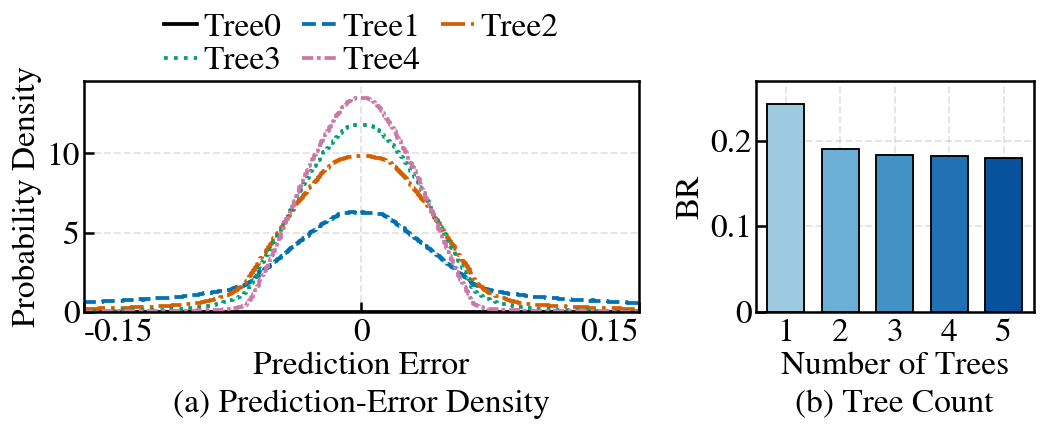
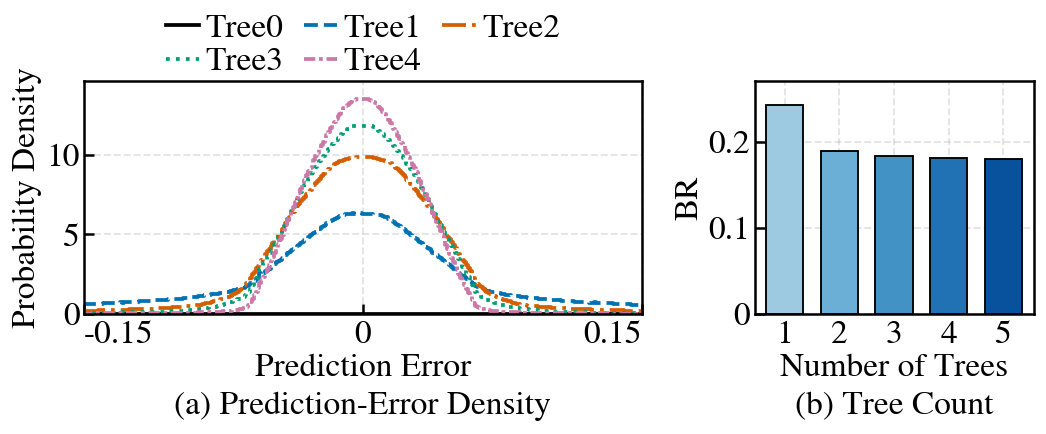
Standardize horizontal panel gaps

diff --git a/src/paperfig/__init__.py b/src/paperfig/__init__.py
@@ -1,6 +1,6 @@
 from .layout import add_panel_captions,add_shared_xlabel,align_xlabels,layout_panel_grid,layout_panel_row,legend_above,legend_spacing_kwargs,panel_aspect_ratios,paper_subplots,set_legend_row_gap
 from .output import save_paper_png,save_paper_png_vertical_crop,validate_figure_bounds
-from .spec import DEFAULT_LEGEND_COLUMN_GAP_PT,DEFAULT_LEGEND_GAP_PT,DEFAULT_LEGEND_HANDLE_TEXT_GAP_PT,DEFAULT_LEGEND_ROW_GAP_PT,DEFAULT_LOG_X_TICK_GAP_PT,DEFAULT_PANEL_ASPECT_RATIO,DEFAULT_PANEL_CAPTION_GAP_PT,DEFAULT_X_LABEL_GAP_PT,DEFAULT_X_TICK_GAP_PT,DEFAULT_Y_LABEL_GAP_PT,DEFAULT_Y_TICK_GAP_PT,MPL_POINTS_PER_INCH,PAPER_COLUMN_WIDTH_PT,PAPER_FONT_SIZE,PAPER_TEXT_WIDTH_IN,PAPER_TEXT_WIDTH_PT,RASTER_DPI,TEX_POINTS_PER_INCH,PaperFigureSpec
+from .spec import DEFAULT_LEGEND_COLUMN_GAP_PT,DEFAULT_LEGEND_GAP_PT,DEFAULT_LEGEND_HANDLE_TEXT_GAP_PT,DEFAULT_LEGEND_ROW_GAP_PT,DEFAULT_LOG_X_TICK_GAP_PT,DEFAULT_PANEL_ASPECT_RATIO,DEFAULT_PANEL_CAPTION_GAP_PT,DEFAULT_X_LABEL_GAP_PT,DEFAULT_X_TICK_GAP_PT,DEFAULT_Y_LABEL_GAP_PT,DEFAULT_Y_TICK_GAP_PT,MPL_POINTS_PER_INCH,PANEL_GAP_WITHOUT_Y_DECORATION_PT,PANEL_GAP_WITH_YLABEL_PT,PANEL_GAP_WITH_YTICKS_PT,PAPER_COLUMN_WIDTH_PT,PAPER_FONT_SIZE,PAPER_TEXT_WIDTH_IN,PAPER_TEXT_WIDTH_PT,RASTER_DPI,TEX_POINTS_PER_INCH,PaperFigureSpec
 from .style import apply_paper_style,style_plot_axis
 
-__all__=["DEFAULT_LEGEND_COLUMN_GAP_PT","DEFAULT_LEGEND_GAP_PT","DEFAULT_LEGEND_HANDLE_TEXT_GAP_PT","DEFAULT_LEGEND_ROW_GAP_PT","DEFAULT_LOG_X_TICK_GAP_PT","DEFAULT_PANEL_ASPECT_RATIO","DEFAULT_PANEL_CAPTION_GAP_PT","DEFAULT_X_LABEL_GAP_PT","DEFAULT_X_TICK_GAP_PT","DEFAULT_Y_LABEL_GAP_PT","DEFAULT_Y_TICK_GAP_PT","MPL_POINTS_PER_INCH","PAPER_COLUMN_WIDTH_PT","PAPER_FONT_SIZE","PAPER_TEXT_WIDTH_IN","PAPER_TEXT_WIDTH_PT","RASTER_DPI","TEX_POINTS_PER_INCH","PaperFigureSpec","add_panel_captions","add_shared_xlabel","align_xlabels","apply_paper_style","layout_panel_grid","layout_panel_row","legend_above","legend_spacing_kwargs","panel_aspect_ratios","paper_subplots","save_paper_png","save_paper_png_vertical_crop","set_legend_row_gap","style_plot_axis","validate_figure_bounds"]
+__all__=["DEFAULT_LEGEND_COLUMN_GAP_PT","DEFAULT_LEGEND_GAP_PT","DEFAULT_LEGEND_HANDLE_TEXT_GAP_PT","DEFAULT_LEGEND_ROW_GAP_PT","DEFAULT_LOG_X_TICK_GAP_PT","DEFAULT_PANEL_ASPECT_RATIO","DEFAULT_PANEL_CAPTION_GAP_PT","DEFAULT_X_LABEL_GAP_PT","DEFAULT_X_TICK_GAP_PT","DEFAULT_Y_LABEL_GAP_PT","DEFAULT_Y_TICK_GAP_PT","MPL_POINTS_PER_INCH","PANEL_GAP_WITHOUT_Y_DECORATION_PT","PANEL_GAP_WITH_YLABEL_PT","PANEL_GAP_WITH_YTICKS_PT","PAPER_COLUMN_WIDTH_PT","PAPER_FONT_SIZE","PAPER_TEXT_WIDTH_IN","PAPER_TEXT_WIDTH_PT","RASTER_DPI","TEX_POINTS_PER_INCH","PaperFigureSpec","add_panel_captions","add_shared_xlabel","align_xlabels","apply_paper_style","layout_panel_grid","layout_panel_row","legend_above","legend_spacing_kwargs","panel_aspect_ratios","paper_subplots","save_paper_png","save_paper_png_vertical_crop","set_legend_row_gap","style_plot_axis","validate_figure_bounds"]

diff --git a/tests/test_geometry.py b/tests/test_geometry.py
@@ -6,12 +6,13 @@ import matplotlib
 matplotlib.use("Agg")
 import matplotlib.image as mpimg
 import matplotlib.pyplot as plt
-from paperfig import DEFAULT_LEGEND_COLUMN_GAP_PT,DEFAULT_LEGEND_GAP_PT,DEFAULT_LEGEND_HANDLE_TEXT_GAP_PT,DEFAULT_LEGEND_ROW_GAP_PT,DEFAULT_LOG_X_TICK_GAP_PT,DEFAULT_X_LABEL_GAP_PT,DEFAULT_X_TICK_GAP_PT,DEFAULT_Y_LABEL_GAP_PT,DEFAULT_Y_TICK_GAP_PT,MPL_POINTS_PER_INCH,PaperFigureSpec,apply_paper_style,layout_panel_grid,layout_panel_row,legend_above,legend_spacing_kwargs,panel_aspect_ratios,save_paper_png_vertical_crop,style_plot_axis
+from paperfig import DEFAULT_LEGEND_COLUMN_GAP_PT,DEFAULT_LEGEND_GAP_PT,DEFAULT_LEGEND_HANDLE_TEXT_GAP_PT,DEFAULT_LEGEND_ROW_GAP_PT,DEFAULT_LOG_X_TICK_GAP_PT,DEFAULT_X_LABEL_GAP_PT,DEFAULT_X_TICK_GAP_PT,DEFAULT_Y_LABEL_GAP_PT,DEFAULT_Y_TICK_GAP_PT,MPL_POINTS_PER_INCH,PANEL_GAP_WITHOUT_Y_DECORATION_PT,PANEL_GAP_WITH_YLABEL_PT,PANEL_GAP_WITH_YTICKS_PT,PaperFigureSpec,apply_paper_style,layout_panel_grid,layout_panel_row,legend_above,legend_spacing_kwargs,panel_aspect_ratios,save_paper_png_vertical_crop,style_plot_axis
 
 class GeometryTest(unittest.TestCase):
     def test_default_panel_spans(self):
         self.assertEqual(panel_aspect_ratios(1,1,1),(math.sqrt(2),)*3)
         self.assertEqual(panel_aspect_ratios(2,1),(2*math.sqrt(2),math.sqrt(2)))
+        self.assertEqual((PANEL_GAP_WITH_YLABEL_PT,PANEL_GAP_WITH_YTICKS_PT,PANEL_GAP_WITHOUT_Y_DECORATION_PT),(8,4,2))
         with self.assertRaises(ValueError):panel_aspect_ratios(1,0)
 
     def test_layout_and_vertical_crop_preserve_width(self):
@@ -26,7 +27,7 @@ class GeometryTest(unittest.TestCase):
             axis.set_ylabel("y")
             style_plot_axis(axis,x_tick_pad=1.5,y_tick_pad=1,x_label_pad=1,y_label_pad=1)
         ratios=panel_aspect_ratios(2,1)
-        layout_panel_row(figure,axes,ratios,bottom_pt=30,panel_gap_pt=9,left_edge_gap_pt=3,right_edge_gap_pt=3)
+        layout_panel_row(figure,axes,ratios,bottom_pt=30,panel_gap_pt=PANEL_GAP_WITH_YLABEL_PT,left_edge_gap_pt=3,right_edge_gap_pt=3)
         figure.canvas.draw()
         renderer=figure.canvas.get_renderer()
         for axis,ratio in zip(axes,ratios):
@@ -116,7 +117,7 @@ class GeometryTest(unittest.TestCase):
             axis.set_xlabel(f"({chr(ord('a')+index)}) Panel")
             style_plot_axis(axis,x_tick_pad=1.5,y_tick_pad=1,x_label_pad=1)
         ratios=panel_aspect_ratios(1,1,1,1,1)
-        layout_panel_grid(figure,axes,ratios,bottom_pt=30,column_gap_pt=4,row_content_gap_pt=6,left_edge_gap_pt=12,right_edge_gap_pt=3)
+        layout_panel_grid(figure,axes,ratios,bottom_pt=30,column_gap_pt=PANEL_GAP_WITH_YTICKS_PT,row_content_gap_pt=6,left_edge_gap_pt=12,right_edge_gap_pt=3)
         figure.canvas.draw()
         renderer=figure.canvas.get_renderer()
         for axis in axes.flat:

diff --git a/examples/fdwz_tree_ablation/plot.py b/examples/fdwz_tree_ablation/plot.py
@@ -4,7 +4,7 @@ import matplotlib
 matplotlib.use("Agg")
 import matplotlib.pyplot as plt
 from matplotlib.ticker import FixedFormatter,FixedLocator
-from paperfig import PaperFigureSpec,add_panel_captions,align_xlabels,apply_paper_style,layout_panel_row,legend_above,legend_spacing_kwargs,save_paper_png_vertical_crop,style_plot_axis
+from paperfig import PANEL_GAP_WITH_YLABEL_PT,PaperFigureSpec,add_panel_captions,align_xlabels,apply_paper_style,layout_panel_row,legend_above,legend_spacing_kwargs,save_paper_png_vertical_crop,style_plot_axis
 
 example_directory=os.path.dirname(os.path.abspath(__file__))
 tree_count_path=os.path.join(example_directory,"data/tree_count.csv")
@@ -15,7 +15,6 @@ X_TICK_GAP_PT=1.5
 Y_TICK_GAP_PT=1.0
 X_LABEL_GAP_PT=1.0
 Y_LABEL_GAP_PT=1.0
-PANEL_GAP_PT=9.0
 LEFT_EDGE_GAP_PT=3.0
 RIGHT_EDGE_GAP_PT=3.0
 PANEL_CAPTION_GAP_PT=2.0
@@ -84,7 +83,7 @@ def make_figure():
     left_axis.get_xticklabels()[0].set_horizontalalignment("left")
     left_axis.get_xticklabels()[-1].set_horizontalalignment("right")
     draw_tree_count_bars(right_axis)
-    layout_panel_row(figure,axes,(2.4,1.2),bottom_pt=30,panel_gap_pt=PANEL_GAP_PT,left_edge_gap_pt=LEFT_EDGE_GAP_PT,right_edge_gap_pt=RIGHT_EDGE_GAP_PT)
+    layout_panel_row(figure,axes,(2.4,1.2),bottom_pt=30,panel_gap_pt=PANEL_GAP_WITH_YLABEL_PT,left_edge_gap_pt=LEFT_EDGE_GAP_PT,right_edge_gap_pt=RIGHT_EDGE_GAP_PT)
     legend_above(left_axis,legend_handles,legend_labels,ncol=3,frameon=False,**legend_spacing_kwargs(8))
     for axis in axes:
         axis.set_axisbelow(True)

diff --git a/examples/minimal/plot.py b/examples/minimal/plot.py
@@ -2,7 +2,7 @@ import os
 import matplotlib
 matplotlib.use("Agg")
 import matplotlib.pyplot as plt
-from paperfig import PaperFigureSpec,add_panel_captions,align_xlabels,apply_paper_style,layout_panel_row,legend_above,legend_spacing_kwargs,panel_aspect_ratios,save_paper_png_vertical_crop,style_plot_axis
+from paperfig import PANEL_GAP_WITH_YLABEL_PT,PaperFigureSpec,add_panel_captions,align_xlabels,apply_paper_style,layout_panel_row,legend_above,legend_spacing_kwargs,panel_aspect_ratios,save_paper_png_vertical_crop,style_plot_axis
 
 example_directory=os.path.dirname(os.path.abspath(__file__))
 output_path=os.path.join(example_directory,"minimal.png")
@@ -16,7 +16,7 @@ def make_figure():
         axis.set_xlabel("Input")
         axis.set_ylabel("Output")
         style_plot_axis(axis)
-    layout_panel_row(figure,axes,panel_aspect_ratios(1,1),bottom_pt=28,panel_gap_pt=8,left_edge_gap_pt=3,right_edge_gap_pt=3)
+    layout_panel_row(figure,axes,panel_aspect_ratios(1,1),bottom_pt=28,panel_gap_pt=PANEL_GAP_WITH_YLABEL_PT,left_edge_gap_pt=3,right_edge_gap_pt=3)
     legend_above(axes[0],ncol=1,frameon=False,**legend_spacing_kwargs(8))
     align_xlabels(figure,axes)
     add_panel_captions(figure,axes,["(a) First","(b) Second"])

diff --git a/src/paperfig/spec.py b/src/paperfig/spec.py
@@ -9,6 +9,9 @@ PAPER_TEXT_WIDTH_IN=PAPER_TEXT_WIDTH_PT/TEX_POINTS_PER_INCH
 RASTER_DPI=300
 PAPER_FONT_SIZE=8.0
 DEFAULT_PANEL_ASPECT_RATIO=math.sqrt(2)
+PANEL_GAP_WITH_YLABEL_PT=8.0
+PANEL_GAP_WITH_YTICKS_PT=4.0
+PANEL_GAP_WITHOUT_Y_DECORATION_PT=2.0
 DEFAULT_X_TICK_GAP_PT=1.5
 DEFAULT_LOG_X_TICK_GAP_PT=2.5
 DEFAULT_Y_TICK_GAP_PT=1.0

diff --git a/README.md b/README.md
@@ -68,7 +68,7 @@ The provisional height is only workspace for Matplotlib. The exported height is 
 import matplotlib
 matplotlib.use("Agg")
 import matplotlib.pyplot as plt
-from paperfig import PaperFigureSpec,add_panel_captions,align_xlabels,apply_paper_style,layout_panel_row,legend_above,legend_spacing_kwargs,panel_aspect_ratios,save_paper_png_vertical_crop,style_plot_axis
+from paperfig import PANEL_GAP_WITH_YLABEL_PT,PaperFigureSpec,add_panel_captions,align_xlabels,apply_paper_style,layout_panel_row,legend_above,legend_spacing_kwargs,panel_aspect_ratios,save_paper_png_vertical_crop,style_plot_axis
 
 apply_paper_style()
 spec=PaperFigureSpec.column()
@@ -78,7 +78,7 @@ for axis in axes:
     axis.set_xlabel("Input")
     axis.set_ylabel("Output")
     style_plot_axis(axis)
-layout_panel_row(figure,axes,panel_aspect_ratios(1,1),bottom_pt=28,panel_gap_pt=8,left_edge_gap_pt=3,right_edge_gap_pt=3)
+layout_panel_row(figure,axes,panel_aspect_ratios(1,1),bottom_pt=28,panel_gap_pt=PANEL_GAP_WITH_YLABEL_PT,left_edge_gap_pt=3,right_edge_gap_pt=3)
 legend_above(axes[0],ncol=1,frameon=False,**legend_spacing_kwargs(8))
 align_xlabels(figure,axes)
 add_panel_captions(figure,axes,["(a) First","(b) Second"])
@@ -106,6 +106,8 @@ The same code is available as the runnable [`examples/minimal`](examples/minimal
 | `save_paper_png_vertical_crop(...)` | Exporting a fixed-width 300 dpi PNG while cropping only vertical whitespace. |
 
 All distance arguments ending in `_pt` are physical points in the final figure. Plot-area aspect ratios describe only the rectangle inside the axes spines. Tick labels, axis labels, legends, and captions do not count toward that ratio.
+
+Choose the horizontal panel gap from the left-side decoration of the following panel: `PANEL_GAP_WITH_YLABEL_PT` is 8 pt when it has a y-axis label and tick labels, `PANEL_GAP_WITH_YTICKS_PT` is 4 pt when it has tick labels only, and `PANEL_GAP_WITHOUT_Y_DECORATION_PT` is 2 pt when it has neither. The layout helpers measure the decoration width separately, so these constants describe the visible clearance from the preceding plot boundary to that decoration.
 
 ## Shared defaults and figure-specific adjustments
 
